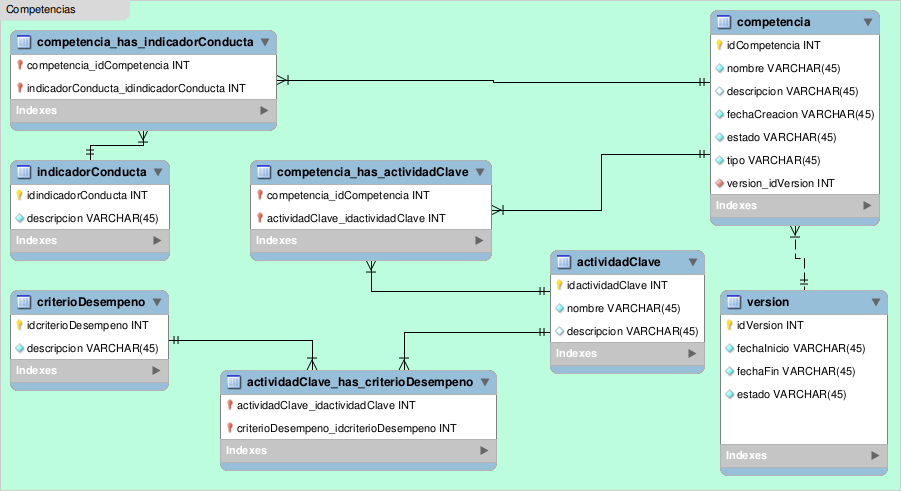
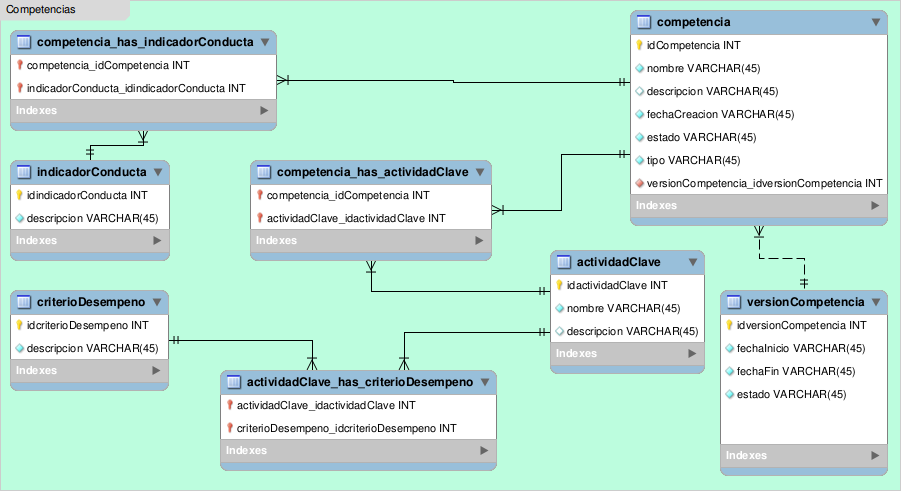
agrega modelo escala y modificacion a modelo de competencias

diff --git a/source/modelos/procesoEvaluacion/procesosEvaluaciones.rst b/source/modelos/procesoEvaluacion/procesosEvaluaciones.rst
@@ -20,19 +20,19 @@ Tablas y Relaciones
 .. glossary::
 
    Tablas
-      * competencia
-      * version
-      * especializacionCompetencia
-      * indicadorConducta
-      * actividadClave
-      * criterioDesempeno
+      * proceso
+      * periodo
+      * subProceso
+      * extension
+      * proceso_has_subProceso
+      * subProceso_has_extension
+      * periodo_has_extension
 
    Relaciones
-      * competencia 1...* version
-      * especializacionCompetencia n...n competencia
-      * especializacionCompetencia n...n indicadorConducta (no mandatorio)
-      * especializacionCompetencia n...n actividadClave (no mandatorio)
-      * actividadClave 1...n criterioDesempeno
+      * proceso 1...1 periodo
+      * proceso n...n proceso_has_subProceso n...n subProceso
+      * subProceso n...n subProceso_has_extension n...n extension
+      * periodo n...n periodo_has_extension n...n extension
 
 
 .. _esquema-proceso-evaluacion:

diff --git a/source/modelos/escala/escalas.rst b/source/modelos/escala/escalas.rst
@@ -1,0 +1,49 @@
+.. _modelo-relacional-escala:
+
+Modelo relacional: escalas
+========================================
+
+referencia del modelo:
+
+.. image:: model-escalas.png
+   :alt: modelo relacional escalas
+   :align: center
+
+
+.. _relaciones-escala:
+
+
+Tablas y Relaciones
+===================
+
+
+.. glossary::
+
+   Tablas
+      * escala
+      * escala_has_eslabon
+      * eslabon
+      * versionEscala
+
+   Relaciones
+      * escala 1...n versionEscala
+      * escala n...n escala_has_eslabon n...n eslabon
+
+
+.. _esquema-escala:
+
+Esquema
+=======
+
+.. literalinclude:: escalas.sql
+   :language: sql
+   :caption: escalas.sql
+   :name: escalas-sql
+
+
+.. _recursos-escalas:
+
+Recursos descargables
+=====================
+
+Recursos: :download:`PNG <model-escalas.png>` | :download:`SQL <escalas.sql>`

diff --git a/source/modelos/competencia/competencias.rst b/source/modelos/competencia/competencias.rst
@@ -23,7 +23,7 @@ Tablas y Relaciones
 
    Tablas
       * competencia
-      * version
+      * versionCompetencia
       * indicadorConducta
       * actividadClave
       * criterioDesempeno
@@ -32,7 +32,7 @@ Tablas y Relaciones
       * actividadClave_has_criterioDesempeno
 
    Relaciones
-      * competencia 1...* version
+      * competencia 1...n versionCompetencia
       * compentencia n...n competencia_has_activdadClave n...n actividadClave
       * compentencia n...n competencia_has_indicadorConducta n...n indicadorConducta
       * actividadClave n...n actividadClave_has_criterioDesempeno n...n criterioDesempeno

diff --git a/source/index.rst b/source/index.rst
@@ -23,3 +23,12 @@ Documentación Sistema Gestion de Desempeño (SGD)
    :glob:
 
    modelos/procesoEvaluacion/*
+
+.. toctree::
+   :caption: Escalas
+   :name: modelo-escalas
+   :titlesonly:
+   :maxdepth: 4
+   :glob:
+
+   modelos/escala/*
